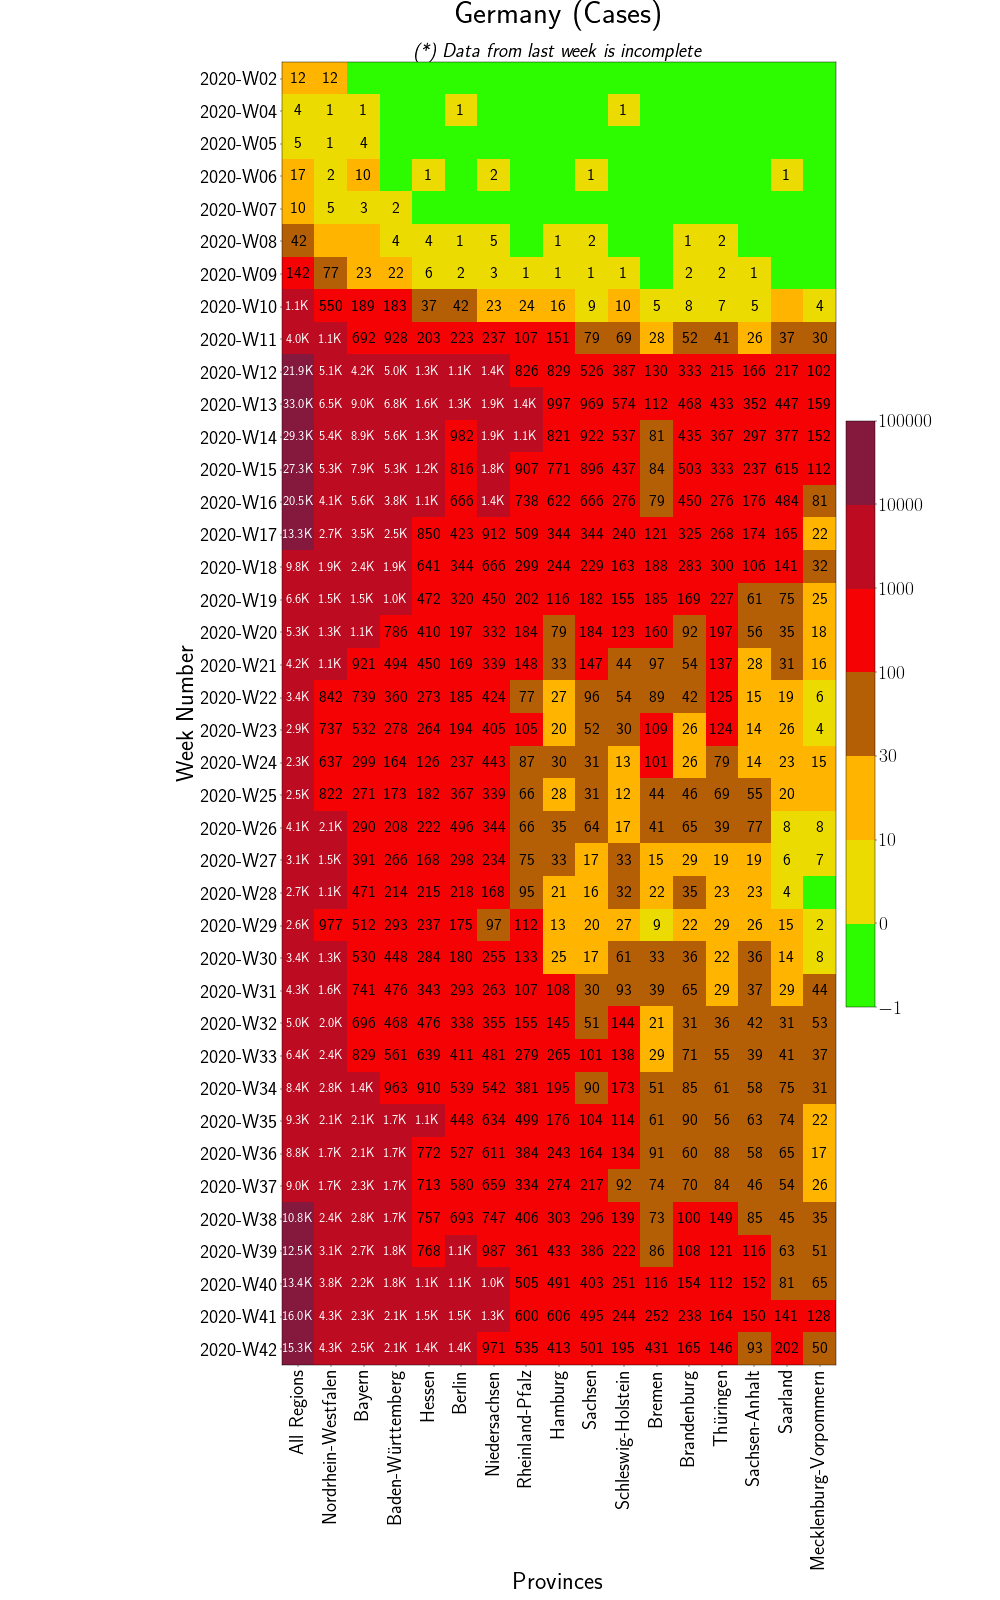
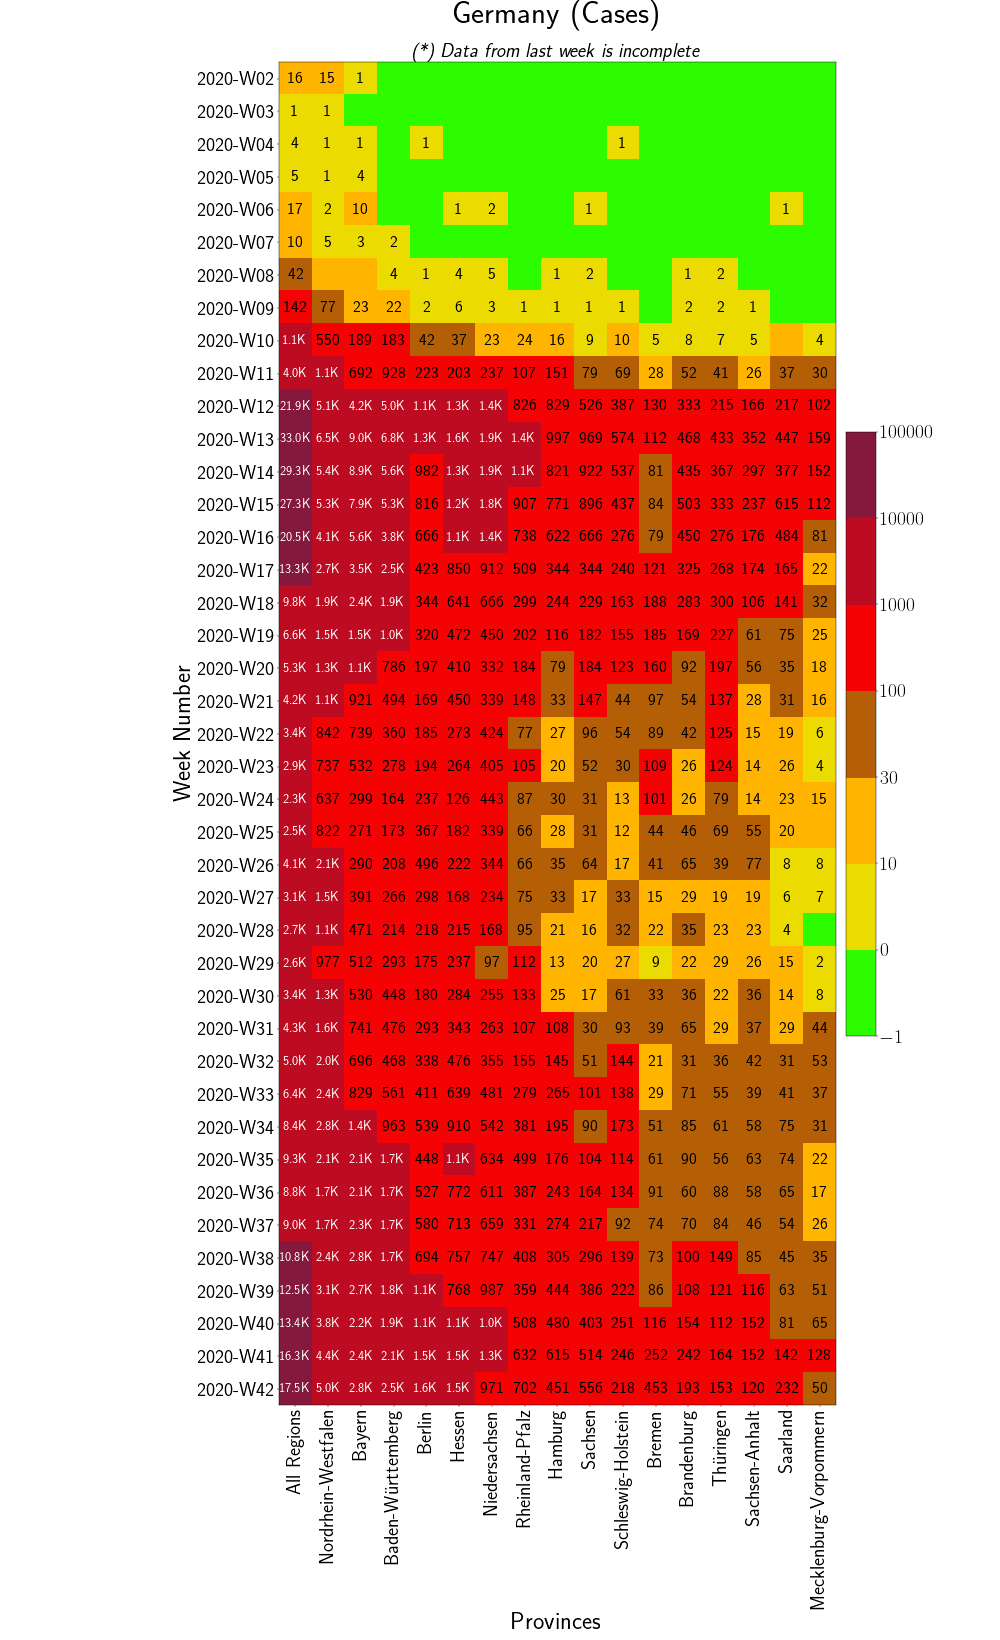
Fixed German Age Column names

diff --git a/fireplot.py b/fireplot.py
@@ -201,6 +201,7 @@ def Germany():
     df = df.groupby(by=['WOY', 'Altersgruppe']).sum().reset_index()
     df['Altersgruppe'] = df['Altersgruppe'].map(lambda s: s.replace('A', ''))
     df = df.pivot(index='WOY', columns='Altersgruppe', values='AnzahlFall').sort_index()
+    df.rename(columns={'00-04':'0-4', '05-14':'5-14', 'unbekannt':'unknown'}, inplace=True)
     df.index = df.index.astype(str)
     strptm = lambda s: datetime.strptime('2020-'+s+'-1', "%Y-%W-%w")
     df.index = df.index.map(strptm)
@@ -712,7 +713,7 @@ def Australia_PC():
     df = df[df.sum().sort_values(ascending=False).index]
     df[df.columns] = df[df.columns].applymap('{:.1f}'.format).applymap(float)
 
-    fireplot(df, country='Australia', Title='Fireplot Australia (Cases per 10k persons)', grouped_by_week=True, caption=r'(*) Data from last week is incomplete', xlabel='Provinces', legend=True, per_capita=True)
+    fireplot(df, country='Australia', Title='Fireplot Australia (Cases per 10k persons)', grouped_by_week=True, caption=r'(*) Data from last week is incomplete', xlabel='Provinces', legend=True, per_capita=True, w_rat=2.0)
 
 
 
@@ -747,7 +748,7 @@ if __name__ == "__main__":
         print('Not using Parallel')
         #Brazil()
         #Czechia_Age()
-        #Germany()
+        Germany()
         #Russia() # Data wierd
         #USA(partitions=0)
         #USA_by_region()
@@ -766,7 +767,7 @@ if __name__ == "__main__":
         #Zurich()
         #Sweden()
         #Sweden_PC()
-        Australia()
+        #Australia()
         #Australia_PC()
 
     #compression()
